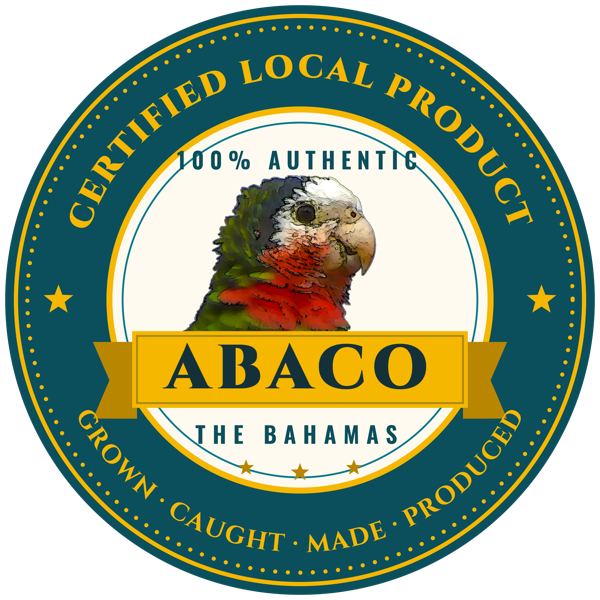
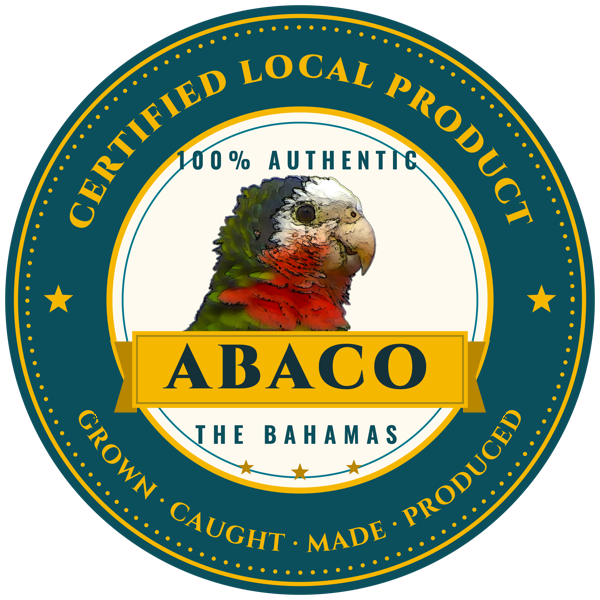
Certified Local Product stamp: ABACO ribbon ends shortened so they no longer touch the outer lettering

Changed region(s): [[0.15, 0.57, 0.24, 0.72], [0.78, 0.57, 0.84, 0.72]]

diff --git a/index.html b/index.html
@@ -340,10 +340,10 @@
   </div>
 </section>
 
-<!-- Certified Local Product seal (official stamp, img/certified-local-abaco-2.png) and what it means -->
+<!-- Certified Local Product seal (official stamp, img/certified-local-abaco-3.png) and what it means -->
 <section class="certified" aria-labelledby="certified-h">
   <div class="wrap cert-card">
-    <img src="/img/certified-local-abaco-2.png" alt="Certified Local Product seal: 100% Authentic, Abaco, The Bahamas. Grown, caught, made, produced." width="600" height="600" loading="lazy">
+    <img src="/img/certified-local-abaco-3.png" alt="Certified Local Product seal: 100% Authentic, Abaco, The Bahamas. Grown, caught, made, produced." width="600" height="600" loading="lazy">
     <div>
       <span class="eyebrow">Look for the seal</span>
       <h2 id="certified-h">Certified Local Product</h2>
